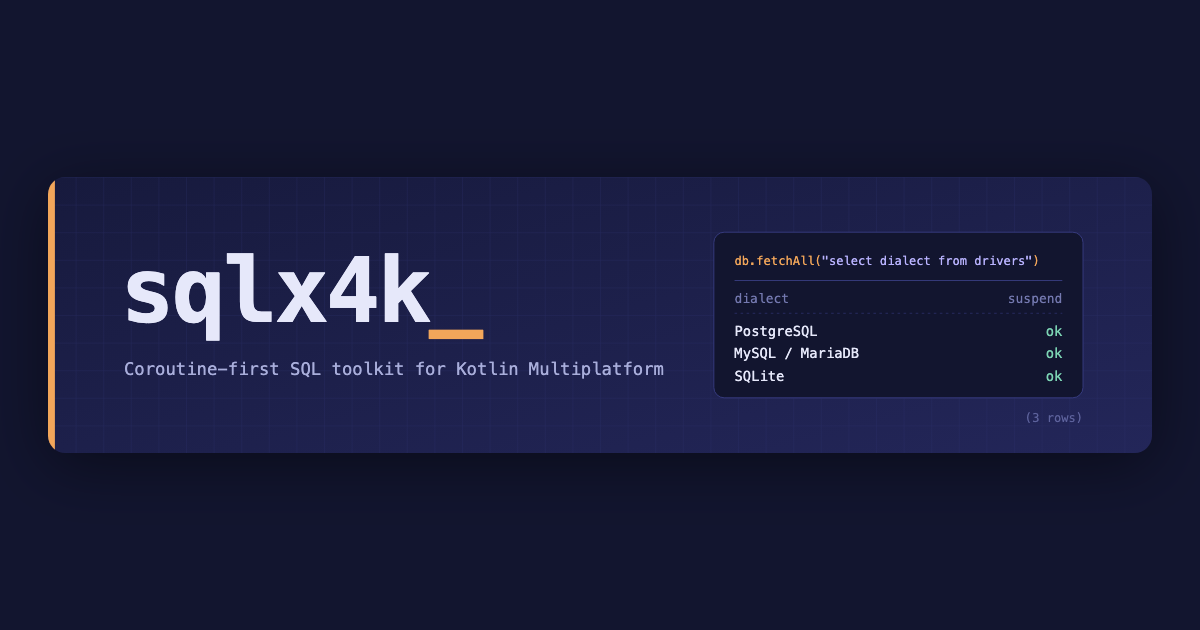
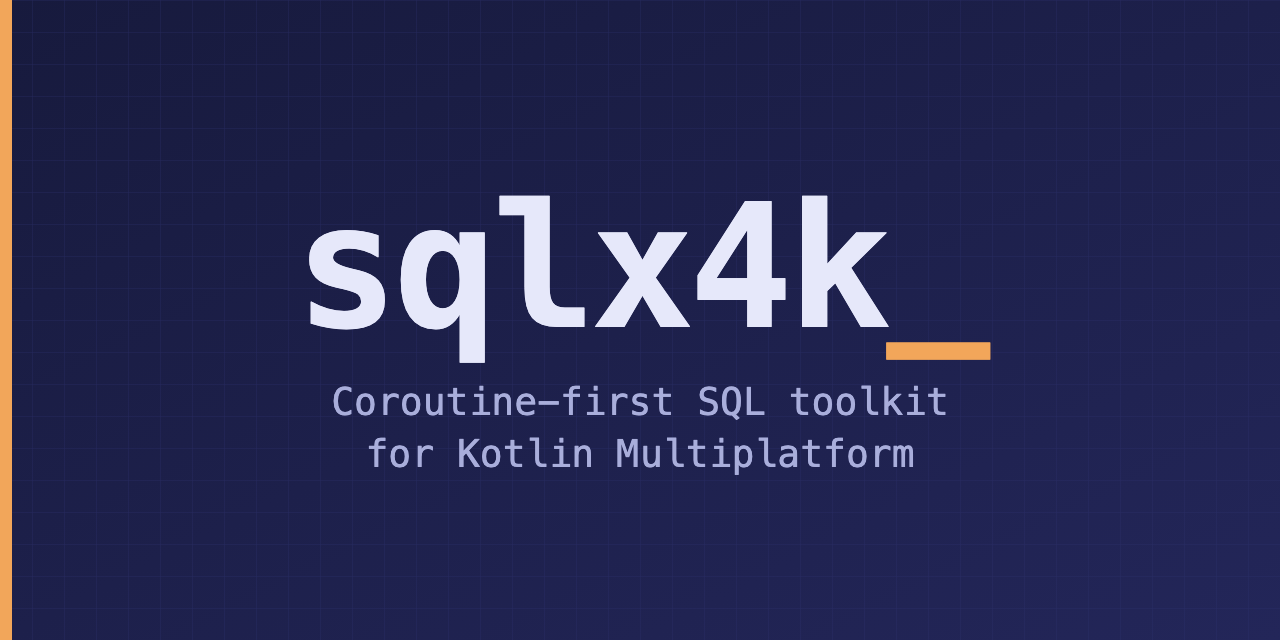
Redo the social image: the wordmark and the subtitle, centered, at 1280x640

diff --git a/overrides/main.html b/overrides/main.html
@@ -27,8 +27,8 @@
   {% endif %}
   <meta property="og:image" content="{{ og_image }}">
   <meta property="og:image:type" content="image/png">
-  <meta property="og:image:width" content="1200">
-  <meta property="og:image:height" content="630">
+  <meta property="og:image:width" content="1280">
+  <meta property="og:image:height" content="640">
   <meta property="og:image:alt" content="{{ config.site_name }}: {{ config.site_description }}">
   <meta name="twitter:card" content="summary_large_image">
   <meta name="twitter:title" content="{{ og_title }}">
